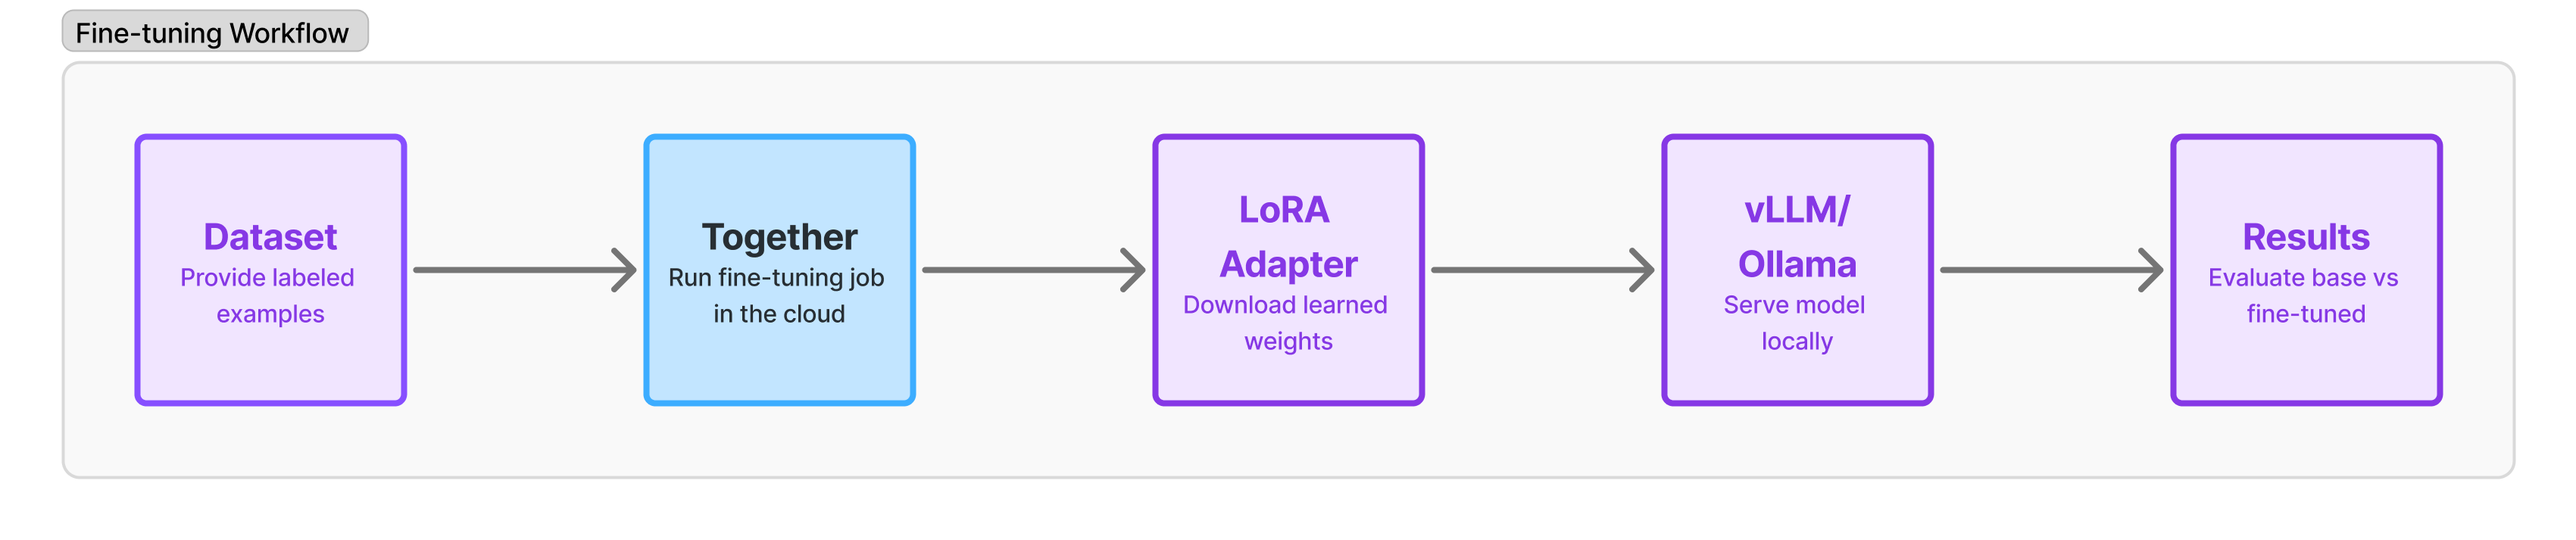
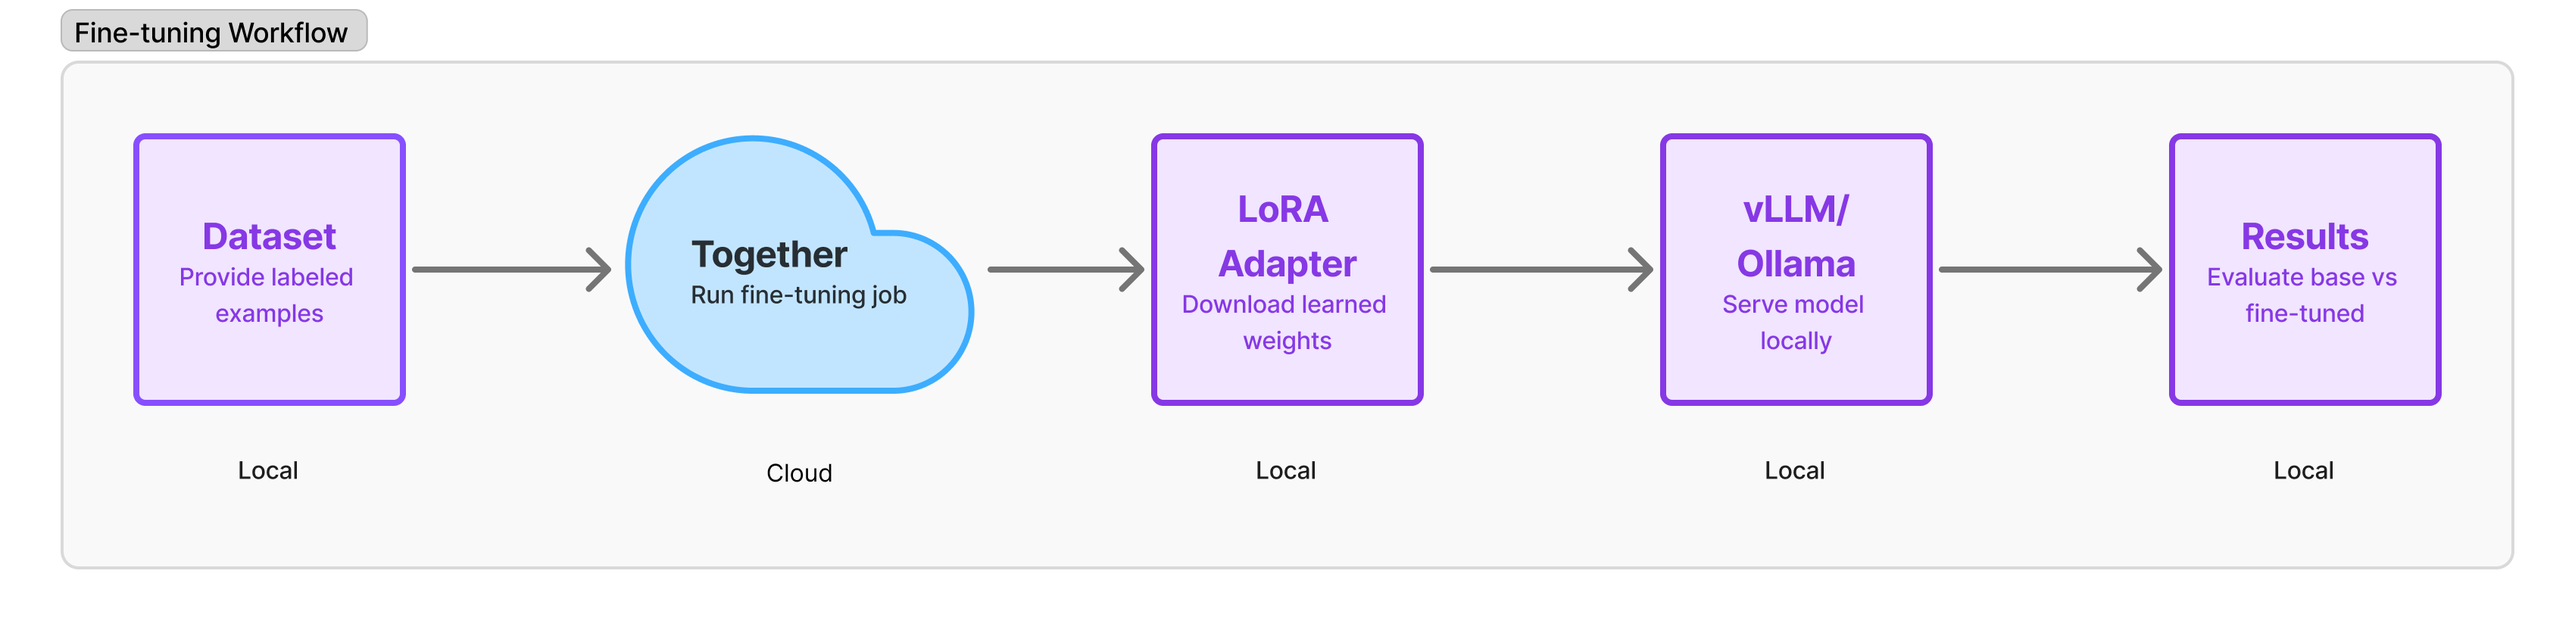
update graphics, add gpt experiment result

diff --git a/docs/blog/posts/fine-tune.md b/docs/blog/posts/fine-tune.md
@@ -82,7 +82,7 @@ Together also lets you easily (one button click) deploy the fine-tuned model on 
 
 
 ## LoRA Rank, Costs, and Tradeoffs 
-The main design choice in LoRA is rank. Rank determines the size of the adapter matrices that the model actually learns during training.
+The main design choice in LoRA is **rank**. Rank determines the size of the adapter matrices that the model actually learns during training.
 
 - Low rank (e.g. 8, 16):
 
@@ -100,17 +100,18 @@ The main design choice in LoRA is rank. Rank determines the size of the adapter 
 
     - Better ability to capture complex patterns, often higher accuracy
 
+In practice, you can think of LoRA rank as the capacity knob: turning it up allows the adapter to learn more, but you’ll pay more in compute.
+
 Other factors that affect training cost include:
 
-- Model size: training Qwen-8B is much cheaper than Qwen-32B
+- **Model size**: training a smaller model like Qwen-8B (≈8 billion parameters) is much cheaper than a larger one like Qwen-32B (≈32 billion parameters). Larger parameter counts generally improve reasoning and accuracy, but they also increase training time, GPU memory needs, and costs. 
 
-- Dataset size: more examples = more GPU time
+- **Dataset size**: the more examples you train on, the longer each epoch takes and the more GPU hours are required. Doubling your dataset size roughly doubles the cost, though it can also improve model generalization. 
 
-- Epochs: each full pass over your dataset adds cost
+- **Epochs**: each full pass over your dataset adds cost. One epoch means the model sees every example once. Multiple epochs let the model learn more, but too many can cause overfitting and drive up the cost.
 
-- Batch size: larger batches speed up training but require more memory
+- **Batch size**: larger batches allow GPUs to process more examples in parallel, speeding up training. However, they require more memory, so you may need larger or more expensive GPUs. Small batch sizes are cheaper on memory but train more slowly. 
 
-In practice, you can think of LoRA rank as the capacity knob: turning it up allows the adapter to learn more, but you’ll pay more in compute. 
 
 ## Fine-Tuning vs. Alternatives
 - Fine-tuning vs. Prompting
@@ -122,6 +123,8 @@ In practice, you can think of LoRA rank as the capacity knob: turning it up allo
     - OpenAI fine-tunes proprietary models (like GPT-4o-mini). You can only use them via API.
 
     - Together fine-tunes open-source models (like Qwen-8B). You can download the adapter and run it anywhere.
+
+The important difference is reproducibility and sharing. Together fine-tunes open-source base models (e.g., Qwen, Mistral, Llama) and produces an open-source adapter file. That means you can freely share the model and others can reproduce your results. In contrast, OpenAI fine-tuned models are proprietary — you can only access them through their API, and you can’t download or distribute the adapted weights.
 
 
 Here’s the fine-tuning workflow at a glance: start with a labeled dataset, fine-tune in the cloud with Together, download the LoRA adapter, and run inference locally with vLLM to evaluate results.
@@ -242,13 +245,15 @@ A key part of inference is evaluation — measuring how the fine-tuned model sta
 #### Example
 In our Reddit classification experiment, the difference was dramatic:
 
-- Final accuracy (base): 0.39 over 5,000 labeled examples using Qwen3-8B-Base
+- Test set accuracy (base): 0.39 over 5,000 labeled examples using Qwen3-8B-Base
 
-- Final accuracy (adapter): 0.74 over 5,000 labeled examples with a fine-tuned LoRA (rank 32)
+- Test set accuracy (adapter): 0.74 over 5,000 labeled examples with a fine-tuned LoRA (rank 32). The training cost was under $5.
+
+- Test set accuracy (GPT-4o): 0.77 using OpenAI’s Batches API with structured outputs. The run cost was just over $1.
 
 ![Evaluation Results Bar Chart](/assets/images/fine-tune-bar-chart-accuracy.png)
 
-*Figure: Accuracy comparison between the base model and fine-tuned model. The LoRA adapter nearly doubled performance.*
+*Figure: Accuracy comparison between the base model, fine-tuned LoRA, and GPT-4o. The LoRA adapter nearly doubled performance over the base, while GPT-4o performed slightly better at very low cost — but remains closed-source and API-restricted.*
 
 ## Conclusion
 
